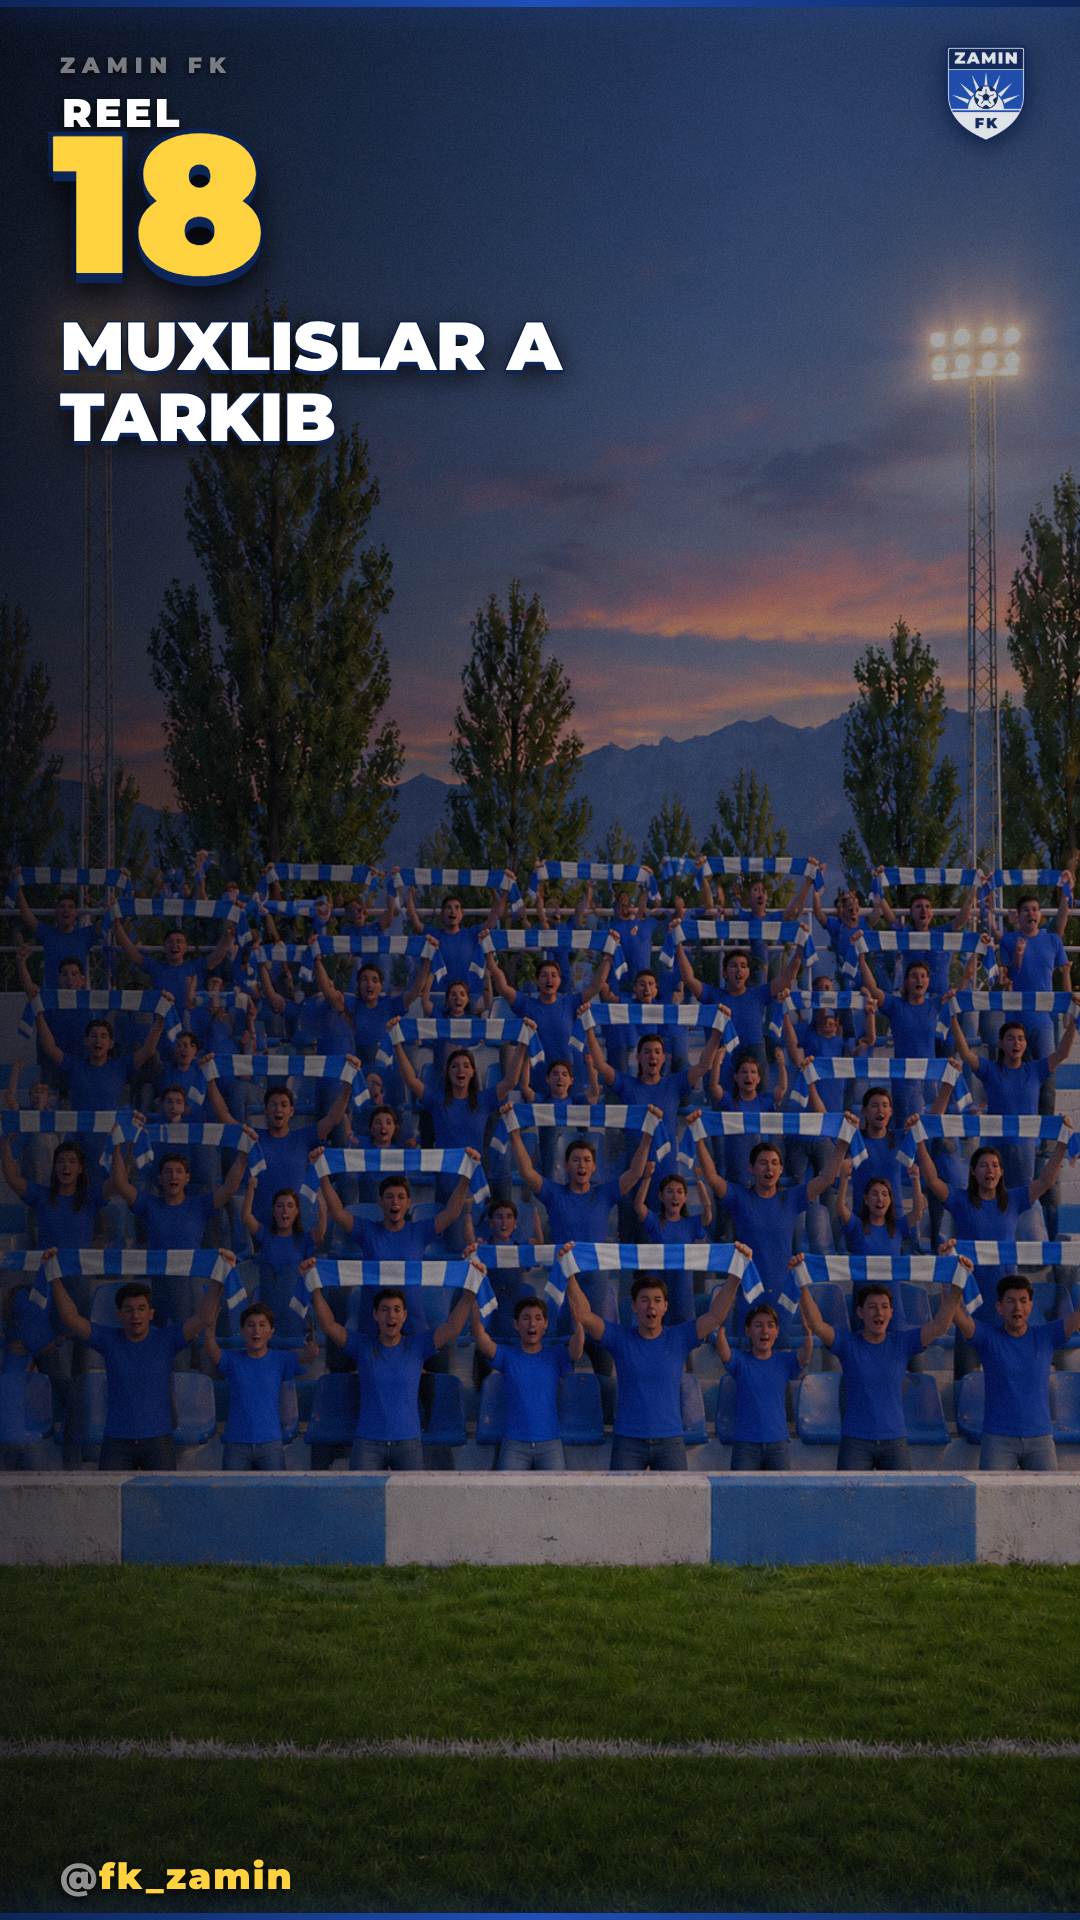
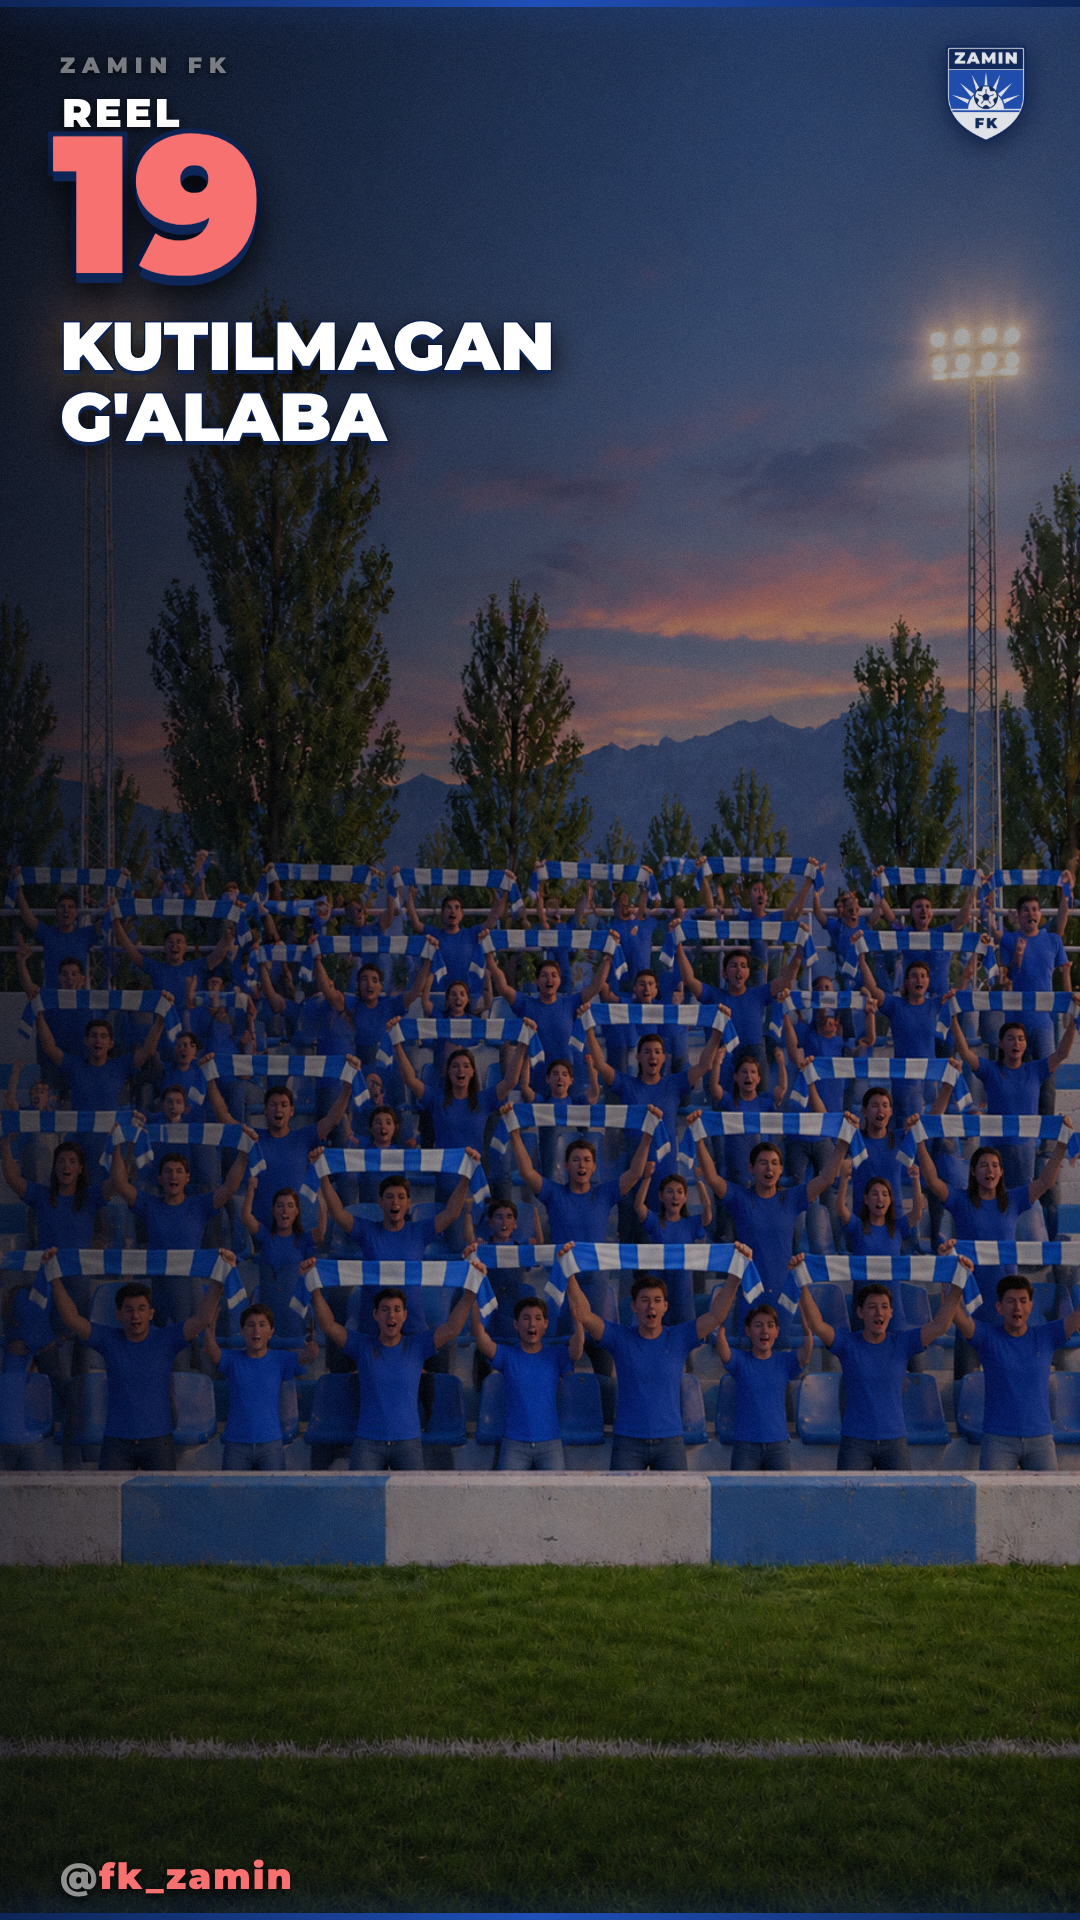
fix cover_19: correct number (19) and title (KUTILMAGAN G'ALABA)
Claude-Session: https://claude.ai/code/session_017oAb5JybVNWND8Xih9kaCy

Changed region(s): [[0.0306, 0.0625, 0.5194, 0.25], [0.0917, 0.9688, 0.275, 1.0]]

diff --git a/ZAMIN_FK/covers/render_covers.js b/ZAMIN_FK/covers/render_covers.js
@@ -34,7 +34,7 @@ const COVERS=[
   {n:16, label:"KUN",   num:"11",   title:"G'OYA\nSIZDAN",         accent:"#FFD23F", bright:0.72},
   {n:17, label:"REEL",  num:"17",   title:"MURABBIY\nE'LON",        accent:"#00C85A", bright:0.72},
   {n:18, label:"VIRAL", num:"🔥",   title:"SINOV\nJAMOASI",        accent:"#FF4500", bright:0.52},
-  {n:19, label:"REEL",  num:"18",   title:"MUXLISLAR A\nTARKIB",   accent:"#FFD23F", bright:0.65},
+  {n:19, label:"REEL",  num:"19",   title:"KUTILMAGAN\nG'ALABA",   accent:"#F87171", bright:0.65},
 ];
 
 function numSize(num){
